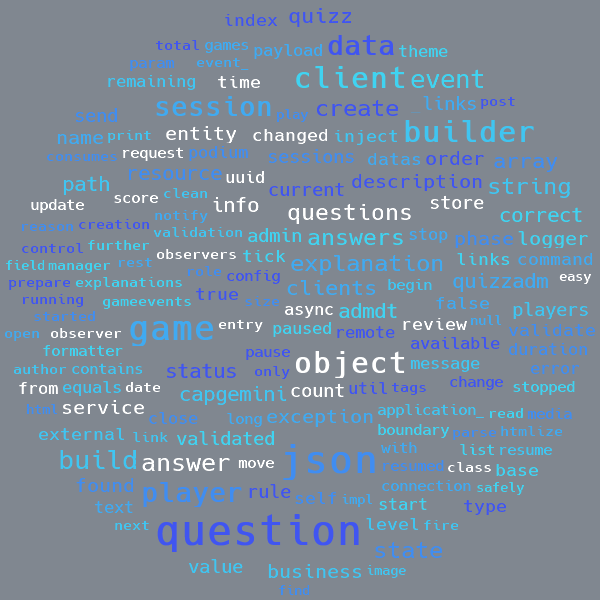
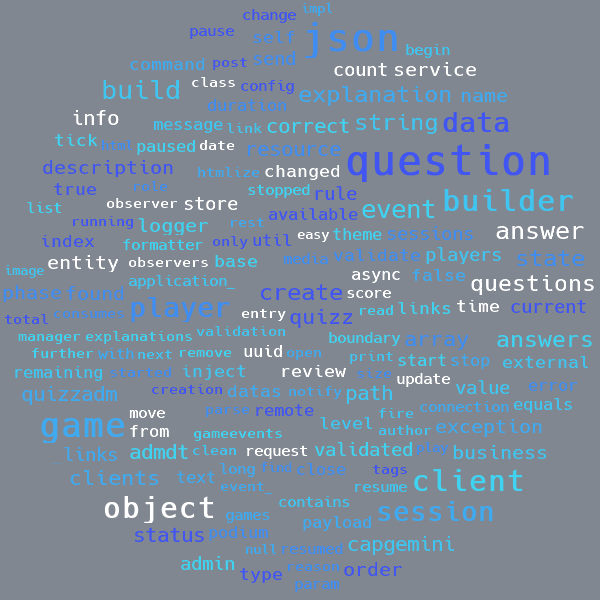
[Evolution] light refactoring

Changed region(s): [[0.0, 0.0, 0.99, 1.0]]

diff --git a/src/main/java/java2tagCloud/Java2TagCloud.java b/src/main/java/java2tagCloud/Java2TagCloud.java
@@ -14,6 +14,8 @@ import java.util.stream.Collectors;
 
 public class Java2TagCloud {
   Map<String, WordOccurence> wordsMap = new HashMap<>();
+  private KeywordFilter keywordFilter = new KeywordFilter();
+  
   private static final ClassLoader classLoader = Java2TagCloud.class.getClassLoader();
 
   public static void main(String[] args) throws IOException {
@@ -33,6 +35,12 @@ public class Java2TagCloud {
     java2TagCloud.printReport();
   }
 
+  public Java2TagCloud() {
+    keywordFilter.loadOneKeywordFile("javakeywords");
+    keywordFilter.loadOneKeywordFile("javaclasses");
+    keywordFilter.loadOneKeywordFile("specialkeywords");
+  }
+  
   static boolean isFileAcceptable(Path path) {
     if (!path.toFile().isFile()) {
       return false;
@@ -47,7 +55,6 @@ public class Java2TagCloud {
   }
 
   void handleFile(Path file) {
-
     Charset charset = Charset.forName("US-ASCII");
     try (BufferedReader reader = Files.newBufferedReader(file, charset)) {
       String line = null;
@@ -59,25 +66,13 @@ public class Java2TagCloud {
     }
   }
 
-  void printReport() {
-    List<WordOccurence> occurences = wordsMap.values().stream()
-        .filter(occurence -> { return occurence.getWord().length() > 3;})
-        .filter(occurence -> { return occurence.getCount() > 3;})
-        .sorted((occurence1, occurence2) -> Integer.compare(occurence2.getCount(),occurence1.getCount()))
-        .collect(Collectors.toList());
-
-    TagCloud tagCloud = new TagCloud(occurences);
-    Path output = Paths.get("wordtag.png");
-    tagCloud.generateTagCloud(output);
-  }
-
   void handleOneLine(String line) {
-    if (JavaKeywordFilter.filterLine(line)) {
+    if (keywordFilter .filterLine(line)) {
       return;
     }
     String words[] = line.split("\\W*\\W");
     for (String word : words) {
-      if (!JavaKeywordFilter.filter(word)) {
+      if (!keywordFilter.filter(word)) {
         handleOneWord(word);
       }
     }
@@ -106,5 +101,17 @@ public class Java2TagCloud {
     }
     String camelCutWords[] = word.split("(?<!(^|[A-Z]))(?=[A-Z])|(?<!^)(?=[A-Z][a-z])");
     return camelCutWords;
+  }
+
+  void printReport() {
+    List<WordOccurence> occurences = wordsMap.values().stream()
+        .filter(occurence -> { return occurence.getWord().length() > 3;})
+        .filter(occurence -> { return occurence.getCount() > 3;})
+        .sorted((occurence1, occurence2) -> Integer.compare(occurence2.getCount(),occurence1.getCount()))
+        .collect(Collectors.toList());
+
+    TagCloud tagCloud = new TagCloud(occurences);
+    Path output = Paths.get("wordtag.png");
+    tagCloud.generateTagCloud(output);
   }
 }

diff --git a/src/main/java/java2tagCloud/KeywordFilter.java b/src/main/java/java2tagCloud/KeywordFilter.java
@@ -9,17 +9,11 @@ import java.nio.file.Paths;
 import java.util.HashSet;
 import java.util.Set;
 
-public class JavaKeywordFilter {
+public class KeywordFilter {
 
-  private static Set<String> keywords = new HashSet<>();
+  private Set<String> keywords = new HashSet<>();
   
-  static {
-    loadOneKeywordFile("javakeywords");
-    loadOneKeywordFile("javaclasses");
-    loadOneKeywordFile("specialkeywords");
-  }
-  
-  private static void loadOneKeywordFile(String filename) {
+  public void loadOneKeywordFile(String filename) {
     ClassLoader classLoader = Java2TagCloud.class.getClassLoader();
     Path file = Paths.get(classLoader.getResource(filename).getFile());
     
@@ -35,15 +29,15 @@ public class JavaKeywordFilter {
   }
   
   /**
-   * return true if the word is a javakeyword
+   * return true if the word is a known keyword
    * @param word
    * @return
    */
-  public static boolean filter(String word) {
+  public boolean filter(String word) {
     return keywords.contains(word);
   }
 
-  public static boolean filterLine(String line) {
+  public boolean filterLine(String line) {
     if (line.trim().startsWith("import")) {
       return true;
     }

diff --git a/src/test/java/java2tagCloud/KeywordFilterTest.java b/src/test/java/java2tagCloud/KeywordFilterTest.java
@@ -1,0 +1,27 @@
+package java2tagCloud;
+
+import static org.hamcrest.CoreMatchers.is;
+import static org.junit.Assert.assertThat;
+
+import org.junit.Test;
+
+public class KeywordFilterTest {
+
+  @Test
+  public void testFilterLine_import() throws Exception {
+    KeywordFilter filter = new KeywordFilter();
+    
+    boolean result = filter.filterLine("import test.test");
+    
+    assertThat(result, is(true));
+  }
+
+  @Test
+  public void testFilterLine_importWithSpaces() throws Exception {
+    KeywordFilter filter = new KeywordFilter();
+    
+    boolean result = filter.filterLine("   import test.test");
+    
+    assertThat(result, is(true));
+  }
+}
